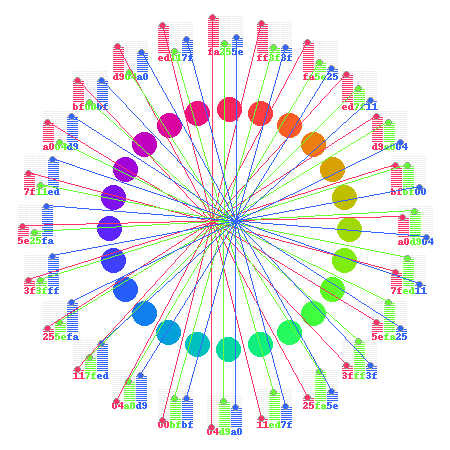
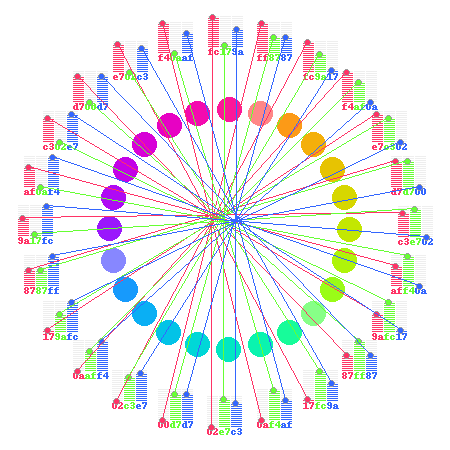
bright もまずまずのでき

diff --git a/step16.py b/step16.py
@@ -34,16 +34,19 @@ def main():
                   180, 165, 150, 135, 120, 105]
     size = len(theta_list)
 
+    # Vivid
     im = Image.new('RGB', (450, 450), white)
     draw = ImageDraw.Draw(im)
     color_list = unnormalize_filter(exaggeration_filter(
-        tone_filter(create_cos_wave(size), 1, 0)))
+        tone_filter(create_cos_wave(size), 1, 0), 0.5, 2/3))
     draw_tone_circle(draw, theta_list, color_list)
     im.save('shared/vivid-tone.png')
 
+    # Bright
     im = Image.new('RGB', (450, 450), white)
     draw = ImageDraw.Draw(im)
-    color_list = unnormalize_filter(tone_filter(create_cos_wave(size), 1, 0))
+    color_list = unnormalize_filter(exaggeration_filter(
+        tone_filter(create_cos_wave(size), 1, 0), 1/5, 3/8))
     draw_tone_circle(draw, theta_list, color_list)
     im.save('shared/bright-tone.png')
 
@@ -77,14 +80,14 @@ def reverse2_filter(color_list):
     return reverse_filter(normalize_filter(color_list))
 
 
-def exaggeration_filter(color_list):
+def exaggeration_filter(color_list, center, rate):
     """誇張フィルター。真ん中(0.5)と、端っこ(0,1)は そのまま。その中間は、端に寄る
     """
     def element(num):
-        if 0.5 < num:
-            return num + (1-num)*2/3
+        if center < num:
+            return num + (1-num)*rate
         else:
-            return num - num*2/3
+            return num - num*rate
 
     new_color_list = []
 
